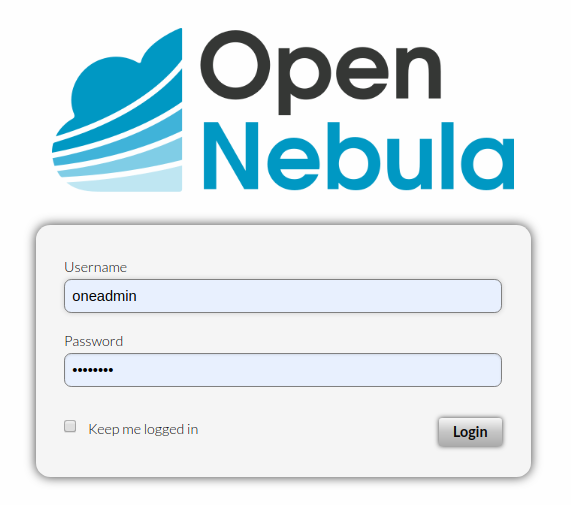
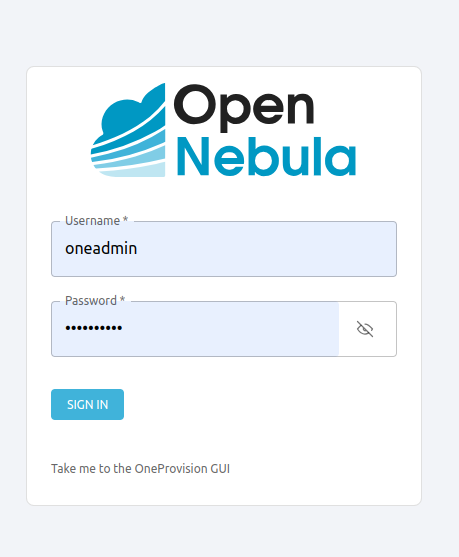
F OpenNebula/one#6430: Review Sunstone references in Front end installation

diff --git a/source/installation_and_configuration/frontend_installation/install.rst b/source/installation_and_configuration/frontend_installation/install.rst
@@ -70,8 +70,6 @@ Available packages for OpenNebula clients, the Front-end and hypervisor Nodes:
 +------------------------------------------+---------------------------------------------------------------------------------------------------------------+
 | **opennebula-tools**                     | Command Line Interface                                                                                        |
 +------------------------------------------+---------------------------------------------------------------------------------------------------------------+
-| **opennebula-sunstone**                  | GUI :ref:`Sunstone <sunstone>` and noVNC Proxy Server                                                         |
-+------------------------------------------+---------------------------------------------------------------------------------------------------------------+
 | **opennebula-fireedge**                  | Next-generation GUI :ref:`FireEdge <fireedge_setup>`                                                          |
 +------------------------------------------+---------------------------------------------------------------------------------------------------------------+
 | **opennebula-gate**                      | :ref:`OneGate <onegate_overview>` server which allows communication between VMs and OpenNebula                |
@@ -126,7 +124,7 @@ Install all OpenNebula Front-end components by executing the following commands 
 
 .. prompt:: bash # auto
 
-    # yum -y install opennebula opennebula-sunstone opennebula-fireedge opennebula-gate opennebula-flow opennebula-provision
+    # yum -y install opennebula opennebula-fireedge opennebula-gate opennebula-flow opennebula-provision
 
 .. _install_docker_deps_rh:
 
@@ -164,7 +162,7 @@ Install all OpenNebula Front-end components by executing the following commands 
 .. prompt:: bash # auto
 
     # apt-get update
-    # apt-get -y install opennebula opennebula-sunstone opennebula-fireedge opennebula-gate opennebula-flow opennebula-provision
+    # apt-get -y install opennebula opennebula-fireedge opennebula-gate opennebula-flow opennebula-provision
 
 .. _install_docker_deps_deb:
 
@@ -274,15 +272,7 @@ Check how to :ref:`change oneadmin password <change_credentials>` for already ru
 FireEdge
 --------
 
-OpenNebula FireEdge is a next-generation web server that delivers a GUI for remote OpenNebula clusters provisioning (OneProvision GUI) as well as additional functionality to Sunstone (Guacamole, and VMRC for VMware). It is installed and configured by default but can be skipped if you don't need these features.
-
-You have to configure Sunstone with the public endpoint of FireEdge so that one service can redirect users to the other. To configure the public FireEdge endpoint in Sunstone, edit ``/etc/one/sunstone-server.conf`` and update parameter ``:public_fireedge_endpoint`` with the base URL (domain or IP-based) over which end-users will access FireEdge. For example:
-
-.. code::
-
-    :public_fireedge_endpoint: http://one.example.com:2616
-
-If you are reconfiguring any time later already running services, don't forget to restart them to apply the changes.
+OpenNebula FireEdge is a next-generation web server that delivers a GUI for remote OpenNebula clusters provisioning (OneProvision GUI) as well as additional functionality to Sunstone (Guacamole). It is installed and configured by default but can be skipped if you don't need these features.
 
 .. note::
 
@@ -342,8 +332,6 @@ The complete list of operating system services provided by OpenNebula:
 +---------------------------------------+------------------------------------------------------------------------+---------------------------+
 | **opennebula-hem**                    | Hook Execution Service                                                 | opennebula                |
 +---------------------------------------+------------------------------------------------------------------------+---------------------------+
-| **opennebula-sunstone**               | GUI server :ref:`Sunstone <sunstone>`                                  |                           |
-+---------------------------------------+------------------------------------------------------------------------+---------------------------+
 | **opennebula-fireedge**               | Next-generation GUI server :ref:`FireEdge <fireedge_setup>`            |                           |
 +---------------------------------------+------------------------------------------------------------------------+---------------------------+
 | **opennebula-gate**                   | OneGate Server for communication between VMs and OpenNebula            |                           |
@@ -351,8 +339,6 @@ The complete list of operating system services provided by OpenNebula:
 | **opennebula-flow**                   | OneFlow Server for multi-VM services                                   |                           |
 +---------------------------------------+------------------------------------------------------------------------+---------------------------+
 | **opennebula-guacd**                  | Guacamole Proxy Daemon                                                 | opennebula-fireedge       |
-+---------------------------------------+------------------------------------------------------------------------+---------------------------+
-| **opennebula-novnc**                  | noVNC Proxy Server                                                     | opennebula-sunstone       |
 +---------------------------------------+------------------------------------------------------------------------+---------------------------+
 | **opennebula-showback**               | Service for periodic recalculation of showback                         | opennebula                |
 +---------------------------------------+------------------------------------------------------------------------+---------------------------+
@@ -367,7 +353,7 @@ You are ready to **start** all OpenNebula services with the following command (N
 
 .. prompt:: bash # auto
 
-    # systemctl start opennebula opennebula-sunstone opennebula-fireedge opennebula-gate opennebula-flow
+    # systemctl start opennebula opennebula-fireedge opennebula-gate opennebula-flow
 
 .. warning::
 
@@ -377,7 +363,7 @@ Other OpenNebula services might be started as a dependency but you don't need to
 
 .. prompt:: bash # auto
 
-    # systemctl enable opennebula opennebula-sunstone opennebula-fireedge opennebula-gate opennebula-flow
+    # systemctl enable opennebula opennebula-fireedge opennebula-gate opennebula-flow
 
 .. _verify_frontend_section:
 
@@ -418,18 +404,18 @@ You can investigate the OpenNebula logs in ``/var/log/one``, check files ``/var/
 
 .. _verify_frontend_section_sunstone:
 
-Sunstone
+FireEdge
 --------------------------------------------------------------------------------
 
 .. note::
 
-   Make sure the TCP port 9869 is not blocked on your firewall.
+   Make sure the TCP port 2616 is not blocked on your firewall.
 
-Now you can try to log in through the Sunstone GUI. To do so, point your browser to ``http://<frontend_address>:9869``. You should get to the login page. The access user is ``oneadmin`` and initial (or customized) password is the one from the file ``/var/lib/one/.one/one_auth`` on your Front-end.
+Now you can try to log in through the FireEdge Sunstone GUI and FireEdge Provision GUI. To do so, point your browser to ``http://<frontend_address>:2616/fireedge/sunstone`` to access to FireEdge Sunstone and point your browser to ``http://<frontend_address>:2616/fireedge/provision`` to access to FireEdge Provision. You should get to the login page in both cases. The access user is ``oneadmin`` and initial (or customized) password is the one from the file ``/var/lib/one/.one/one_auth`` on your Front-end.
 
 |sunstone_login|
 
-In case of problems, you can investigate the OpenNebula logs in ``/var/log/one`` and check file ``/var/log/one/sunstone.log``.
+In case of problems, you can investigate the OpenNebula logs in ``/var/log/one`` and check file ``/var/log/one/fireedge.log``.
 
 Directory Structure
 --------------------------------------------------------------------------------
@@ -441,7 +427,7 @@ The following table lists few significant directories on your OpenNebula Front-e
 +=====================================+======================================================================================+
 | ``/etc/one/``                       | **Configuration files**                                                              |
 +-------------------------------------+--------------------------------------------------------------------------------------+
-| ``/var/log/one/``                   | Log files, e.g. ``oned.log``, ``sched.log``, ``sunstone.log`` and ``<vmid>.log``     |
+| ``/var/log/one/``                   | Log files, e.g. ``oned.log``, ``sched.log``, ``fireedge.log`` and ``<vmid>.log``     |
 +-------------------------------------+--------------------------------------------------------------------------------------+
 | ``/var/lib/one/``                   | ``oneadmin`` home directory                                                          |
 +-------------------------------------+--------------------------------------------------------------------------------------+
@@ -494,8 +480,6 @@ The list below shows the ports used by OpenNebula. These ports need to be open f
 +------------+------------------------------------------------------------------------------+
 | ``5030``   | OneGate server                                                               |
 +------------+------------------------------------------------------------------------------+
-| ``9869``   | GUI server Sunstone                                                          |
-+------------+------------------------------------------------------------------------------+
 | ``29876``  | noVNC Proxy Server                                                           |
 +------------+------------------------------------------------------------------------------+
 
@@ -507,8 +491,6 @@ OpenNebula connects to the hypervisor Nodes over SSH (port 22). Additionally, th
 
 - OpenNebula Marketplace (``https://marketplace.opennebula.io/``)
 - Linux Containers Makerplace (``https://images.linuxcontainers.org/``)
-- TurnKey Linux (``http://mirror.turnkeylinux.org/``)
-- Docker Hub (``https://hub.docker.com/``)
 
 You should open the outgoing connections to these services.
 
@@ -529,7 +511,7 @@ Use following command to **stop all** OpenNebula services:
 .. prompt:: bash # auto
 
     # systemctl stop opennebula opennebula-scheduler opennebula-hem \
-        opennebula-sunstone opennebula-fireedge opennebula-gate opennebula-flow \
+        opennebula-fireedge opennebula-gate opennebula-flow \
         opennebula-guacd opennebula-novnc opennebula-showback.timer \
         opennebula-ssh-agent opennebula-ssh-socks-cleaner.timer
 
@@ -538,7 +520,7 @@ Use the following command to **restart all** already running OpenNebula services
 .. prompt:: bash # auto
 
     # systemctl try-restart opennebula opennebula-scheduler opennebula-hem \
-        opennebula-sunstone opennebula-fireedge opennebula-gate opennebula-flow \
+        opennebula-fireedge opennebula-gate opennebula-flow \
         opennebula-guacd opennebula-novnc opennebula-ssh-agent
 
 Learn more about `Managing Services with Systemd <https://access.redhat.com/documentation/en-us/red_hat_enterprise_linux/8/html/configuring_basic_system_settings/managing-services-with-systemd_configuring-basic-system-settings#managing-system-services_managing-services-with-systemd>`__.
@@ -546,7 +528,7 @@ Learn more about `Managing Services with Systemd <https://access.redhat.com/docu
 In production environments the services should be stopped in a specific order and with extra manual safety checks:
 
 1. Stop **opennebula-scheduler** to stop planning deployment of VMs.
-2. Stop **opennebula-sunstone** and **opennebula-fireedge** to disable GUI access to users.
+2. Stop **opennebula-fireedge** to disable GUI access to users.
 3. Stop **openenbula-flow** to disable unattended multi-VM optations.
 4. Check and wait until there are no active operations with VMs and images.
 5. Stop **opennebula** and rest services.
